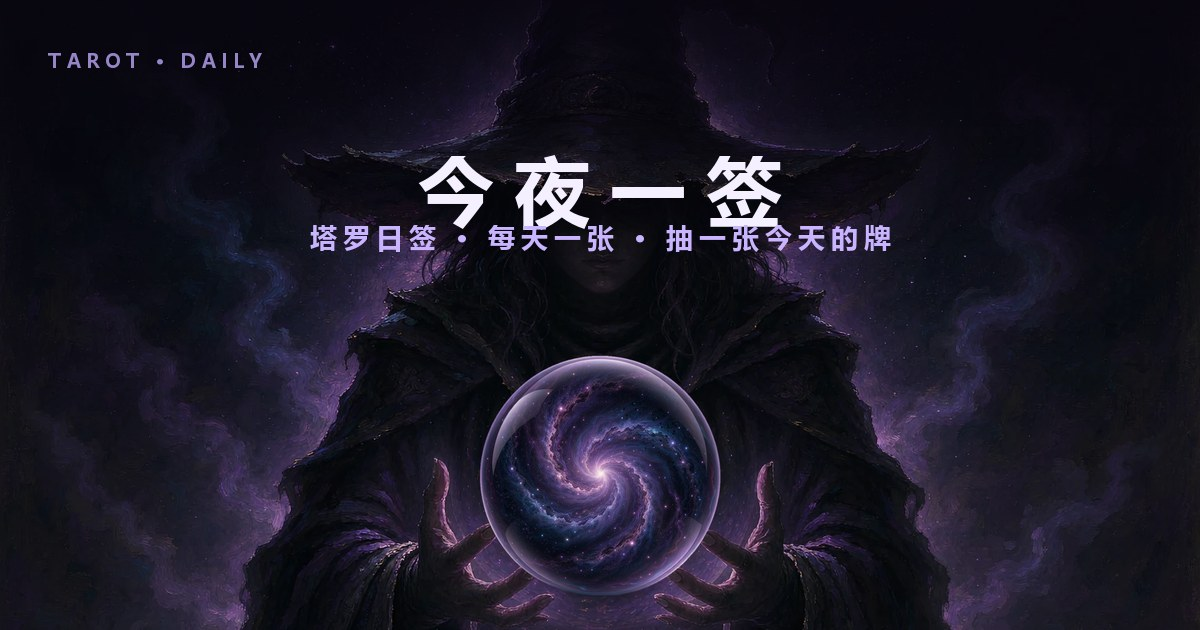
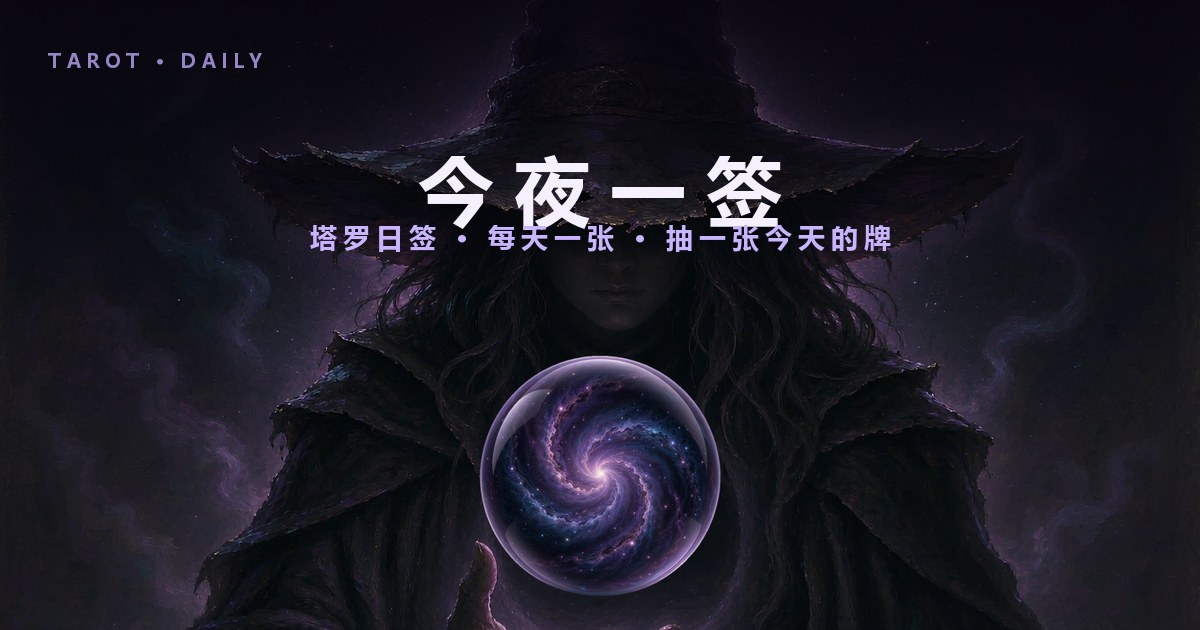
v2 主视觉装入皮肤（首版）：女巫肩部以上特写 + 单手托举 + 中央留空给 3D 球
出图 1 张（约 5-10 积分），1536x1024，image-to-image 以 v1 母版为参考保画风。
v1 母版移入 assets/hero-art/bg/_v1/ 保留（find_src 取排序第一张，两张并存会取错）。

实测（scripts/_debug/preview_hero_v2.py + 真页面）：
- 球心在图像坐标 (50.0%, 61.5%)，与规格 (50%, 61%) 偏差 0.5% -> ANCHORS.orb / CARD_RISE 零改动
- 既有几何契约未破：audit-draw overlapPx=0 / 净空 2.3px / 八拍 5501.8ms；
  audit-title 标题、副标题、卡牌三处重叠全为 0
- 空区直径实测 ≈36.8%（规格 ≥46%，偏小），但圆心准确且软边无轮廓
- 已知缺口：宽扁屏可见窗口下缘只到 y≈75.7%，手定在 y61%-88% -> 桌面看不见手（手机正常）

同时重跑 build_lqip.py 与 build_og_cover.py，模糊底与分享封面已跟随新画面。

diff --git a/src/config/lqip.js b/src/config/lqip.js
@@ -4,4 +4,4 @@
  * 换主视觉后重跑脚本，否则模糊底色会和新画面对不上。
  */
 export const HERO_BG_LQIP =
[2 lines of base64/hex data omitted]

diff --git a/HERO_V2_PROMPT.md b/HERO_V2_PROMPT.md
@@ -3,7 +3,7 @@
 > 这份文件是 v2 的**唯一一张图**的规格书。出图前先读第 1 节（它决定了构图为什么必须往中央挤），
 > 第 3 节是可以直接粘贴的提示词，第 5 节是出图后的处理与验收。
 >
-> 状态：**草案 · 待用户过目后出图**（出图要花积分，项目红线：批量出图前必须确认）
+> 状态：**已定稿 · 待出图**（2026-09-19 第七轮六问全部拍板，见第 6 节；出图 1 张 / 约 5–10 积分，红线已确认）
 
 ---
 
@@ -45,14 +45,19 @@ aspect-ratio: 3 / 2
 > 所以「必须被看见的东西」要落进一个**中央盒子**：
 
 ```
-                x ∈ [33%, 67%]
+                x ∈ [35%, 65%]
         y=12%  ┌───────────────┐
                │               │
                │   中央安全盒   │   ← 宽扁屏在这里裁上下
-               │  34% × 60%    │     手机在这里裁左右
+               │  30% × 60%    │     手机在这里裁左右
                │               │
         y=72%  └───────────────┘
 ```
+
+> **2026-09-19 修正**：这里原本写的是 x ∈ [33%, 67%]。用 `assets/_debug/preview_hero_v2.py`
+> 按 CSS 数学实测量 390×844 得可见窗口 x[35.2%, 64.8%] —— **安全盒是 [35%, 65%]，比原估窄**。
+> 另外要记住一条容易漏的：**宽扁屏的可见窗口下缘只到 y≈75.7%**（1564×708 实测 y[10.4%, 75.7%]），
+> 所以「想被看见的东西」**下面那条线是 y≈76%，不是 100%**。第 2 节里手的高度就是栽在这里（见 5.4）。
 
 ### 1.2 揭晓态的实测（`assets/_debug/probe-panel-orb.js`，1564×708）
 
@@ -78,9 +83,9 @@ aspect-ratio: 3 / 2
 | **脸** | y ≈ 24–34%，**必须落在 x ∈ [33%, 67%]** | 五官是必须看见的部分 |
 | 肩 / 袍 | y 34–46%，横向可溢出 | 溢出部分是「随设备被裁的余量」 |
 | **球位空区** | 圆心 **(50%, 61%)**、直径 **≥46%（画布高）** | 46% 是目标球径（31%）的 1.5 倍 → 球在空区里有 **±7% 的平移自由度** |
-| 空区内 | 只允许稀薄暗雾 | **不许画任何球体 / 光球 / 球状光晕**（AI 的本能就是补一颗球） |
+| 空区内 | 只允许稀薄暗雾 | **不许画任何球体 / 光球 / 球状光晕**（AI 的本能就是补一颗球）；**也不许画朝中央的辉光**——3D 球是自身发光的实心体，空区里画了辉光也会被它压住，纯属白画 |
 | **手** | 从画面下缘伸入，指尖最高到 **y ≈ 68%**，手腕在 y≥80% 处被下缘裁掉 | 指尖 ≤y70% 有两个硬理由：① 只覆盖球体**下部约 20% 高度**（= 面积遮挡 ≈15%，这是用户定的上限）② 卡牌底边在画布 y≈50.5%，手不得越线 |
-| 手的位置 | **x ∈ [33%, 67%] 内**（左或右待定） | 否则手机上只剩一根手指 |
+| 手的位置 | **左手**（从左下伸入），整只手落在 **x ∈ [33%, 67%] 内** | 否则手机上只剩一根手指。左手 → 左下入画 → 指向中央球心的一条斜线 |
 | 主光 | **左上前方**（冷月光） | 帽檐因此在脸上投影 —— 这就是「脸被阴影盖住」的物理来源，不是画上去的一块黑 |
 
 ### 为什么空区要「比球大」而不是「正好」
@@ -111,7 +116,7 @@ aspect-ratio: 3 / 2
 · 画面正中央留出一块完全空无的区域：不要画任何球体、光球、玻璃球或球状光晕。
   这块空区是一个圆，圆心在画面横向正中、纵向约 61% 处，直径约为画面高度的 46%。
   空区里只允许有稀薄的暗雾，不要有清晰的物体边缘。
-· 画面下缘伸入一只手（只有一只，另一只手必须完全不出现在画面里）：
+· 画面**左下方**伸入一只手（只有一只，另一只手必须完全不出现在画面里）：
   手背朝外、手指微微收拢，拇指在一侧、其余四指在另一侧，
   从下方环住那块空区的下缘，像是正托住一颗看不见的球。
   指尖最高不超过画面高度的 68%；手腕与小臂在画面下缘被裁掉。
@@ -122,6 +127,7 @@ aspect-ratio: 3 / 2
 不能出现：任何文字、字母、数字、签名、水印、logo、边框；
 第二只手或另一侧的手指；水晶球 / 玻璃球 / 光球 / 球状发光体；
 清晰的人脸五官；明亮的背景；对称的双臂。
+参考图右下角原本有「AI生成 / WORKBUDDY」水印，必须彻底去掉 —— 新图里不要保留任何水印痕迹。
 ```
 
 ### 3.2 English（同一份，给偏好英文的模型）
@@ -141,7 +147,7 @@ New composition (3:2 landscape, close-up of the witch from the shoulders up):
   orb, light-ball, glass ball or spherical glow. The empty region is a circle whose centre is
   horizontally centred and about 61% down the image, with a diameter of about 46% of the image height.
   Only thin dark fog inside it — no hard edges of any object.
-· One single hand enters from the bottom edge (only one hand; the other hand must not appear at all):
+· One single hand enters from the lower-left edge (only one hand; the other hand must not appear at all):
   back of the hand facing out, fingers slightly curled, thumb on one side and the other four fingers
   on the other, cupping the lower edge of that empty region as if holding an invisible sphere.
   Fingertips reach no higher than 68% of the image height; the wrist and forearm are cut off by the bottom edge.
@@ -153,6 +159,8 @@ New composition (3:2 landscape, close-up of the witch from the shoulders up):
 Must NOT contain: any text, letters, numbers, signature, watermark, logo or border;
 a second hand or fingers on the other side; a crystal ball, glass sphere, orb, light-ball or spherical glow;
 clearly rendered facial features; a bright background; symmetrical arms.
+The reference image has an "AI生成 / WORKBUDDY" watermark in the bottom-right corner — remove it completely,
+leave no watermark trace anywhere in the new image.
 ```
 
 ---
@@ -197,11 +205,60 @@ clearly rendered facial features; a bright background; symmetrical arms.
 | 球与空区的净空 | 球径 31% 叠在空区上 | 球边缘距空区边缘 ≥4%（画布高） |
 | 不破坏既有契约 | `scripts/flows/audit-draw.js` + `audit-title.js` | 标题/卡牌/面板重叠仍为 0 |
 
+### 5.4 首次出图的实测结果（2026-09-19，已装入皮肤）
+
+图：`assets/hero-art/bg/以参考图为准_…_2026-09-19T12-36-04.png`（1536×1024，1.79 MB，**1 次 / 约 5–10 积分**）
+
+| 判据 | 期望 | 实测 | 判定 |
+|---|---|---|---|
+| 球心在图像坐标 | (50%, 61%) | **(50.0%, 61.5%)** | ✓ 偏差 0.5% → **锚点零改动** |
+| 宽扁屏可见窗口 | x≈[2%,98%] y≈[10%,76%] | x[1.9%,98.1%] **y[10.4%,75.7%]** | ✓ |
+| 手机可见窗口 | x≈[35%,65%] | x[35.2%,64.8%] | ✓ |
+| 空区直径 | ≥46% | **≈36.8%**（径向扫描中位半径 18.4%） | ✗ 偏小（球余量从 ±7% 降到 ±2.9%） |
+| 空区是否被画成球 | 无硬边、无球体 | **软边暗区，无轮廓、无球状高光** | ✓ |
+| 脸是否被帽檐阴影盖住 | 眼睛不可见、只剩轮廓 | 眼窝全黑，仅鼻梁/唇极弱可见 | ✓（2× 放大后判读） |
+| 一只手、另一只消失 | 必须 | ✓ 只有一只，从左下伸入 | ✓ |
+| 水印 | 去掉 | ✗ 仍在右下角 | 无害：位于 x 86–97% / y 92–98%，**任何视口的可见窗口都取不到它** |
+| 既有几何契约 | 重叠 = 0 | `audit-draw` `overlapPx: 0` / 净空 2.3px / 八拍 5501.8ms；`audit-title` 三处重叠全 0 | ✓ |
+
+**⚠ 本轮最重要的发现（规格书的漏洞，不是出图工具的错）：宽屏上手看不见。**
+
+- 第 2 节把「手」定在画布 y 61%–88%（依据是球的下缘与卡牌底线），**但没有拿它去和可见窗口比**。
+- 而宽扁屏可见窗口下缘只到 **y≈75.7%**（1564×708 实测）→ 手只有最上面一截勉强进得来，而那一截恰好最暗。
+- 真页面验证：`v2-idle-wide.png` 的底部带（视口 y60–100%）**做对比拉伸后仍然没有手**，只有袍子的暗块。
+- 反过来手机（可见窗口 y[1.2%, 97.3%]）**手完整可见**，`v2-compose-390x844.png` 里托举的姿态很清楚。
+- 结论：**「手在球下缘」与「手在宽扁屏上可见」在几何上几乎互斥** ——
+  球下缘在 y77%，而可见下缘在 y75.7%，两者只差 1.3%。
+  想让手在桌面也看得见，手就得**沿球的侧缘往上抓**（指尖到 y≈55%），而不是从下方托。
+
+
 ---
 
-## 6 · 待确认（出图前请逐条拍板）
+## 6 · 已确认的决定（2026-09-19 第七轮，六问全部拍板）
 
-1. **空区圆心是否就钉在 v1 球心 (50%, 61%)**（换取 `ANCHORS.orb` / `CARD_RISE` 零改动）
-2. **手在左侧还是右侧**（当前按「左下伸入、引向中央」写）
-3. **手机上帽檐要不要完整**（要完整 ⇒ 帽檐必须 ≤34% 宽 ⇒ 头比 v1 还小；两者的取舍见第 1 节）
-4. **是否接受「球的下缘在宽扁屏上被裁 2–5%」**（v1 已如此；要完整就得把球心再上移 5%，而 `CARD_RISE` 要 19 → ~9）
+| # | 问题 | 决定 | 后果 / 落点 |
+|---|---|---|---|
+| 1 | 空区圆心锚在哪 | **甲 · 钉在 v1 球心 (50%, 61%)** | `ANCHORS.orb` / `CARD_RISE` / 卡牌面板契约**零改动**。空区直径 ≥46%（球径 31% 的 1.5 倍）换来球在空区里 **±7% 平移自由度** → 图就算画偏 5% 也**不用改锚点** |
+| 2 | 球是透明窗还是自身发光 | **甲 · 自身发光** | 事实前提：three 的 `transmission` 采样的是**场景环境，不是 canvas 背后的 DOM** → 「球折射女巫」这条路本身走不通。改为内部程序化星云（与页面雾气粒子同源）+ 冷蓝菲涅尔边缘 + 镜面高光，中部用半透明暗色压掉背后的星。**连带约束：空区里不画任何辉光** |
+| 3 | 手机上帽檐要不要完整 | **甲 · 帽檐主动溢出** | 手机上帽檐两侧被裁 → 读作「近距离特写」，头可以比 v1 更大。必须守住：**脸 + 空区 + 手三者落在 x ∈ [33%, 67%]** |
+| 4 | 手在左还是右 | **左手**（从左下伸入，形成指向中央球心的斜线） | 提示词第 3 节已按左侧写 |
+| 5 | 揭晓态球被面板盖 73.5% | **不处理** | 待抽态球是完整主角、抽完把舞台交给卡牌与解读；3D 的投入在待抽态与抽牌仪式里已全额兑现 |
+| 6 | 上线落哪 | **GitHub 私有仓 + Vercel** | 见第 7 节。**私有仓**这条同时避开一个坑：免费账号下 GitHub Pages 要求仓库公开，而仓里躺着 57 MB 美术母版 |
+
+---
+
+## 7 · 上线通道（Q5 决定：GitHub 私有仓 + Vercel）
+
+本机事实（2026-09-19 实测）：
+
+- `gh` **已安装且已登录**：v2.92.0，账号 `VickRolL`，token scopes 含 `repo`，git 传输协议 https 
+  → **建私有仓 + push 这两步不需要用户手动操作**
+- `git remote -v` 为空 → 尚未关联任何远端
+- **Vercel 那一步无法代做**：需要在 vercel.com 用 GitHub 账号授权登录并 import 仓库
+
+顺序：本地提交干净 → `gh repo create --private` → `git push` → 用户在 Vercel 侧 import。
+
+⚠ 推之前必须复核 `.gitignore`：`assets/card-art`（22 张牌面母版）、`assets/hero-art`（主视觉母版）
+是**要入库的**（重出要花积分），而 `node_modules` / `dist*` / `assets/_debug` / `assets/previews` /
+`assets/card-styles` / `_archive` 必须排除。基线提交实测为 118 文件 / 70.92 MB。
+
